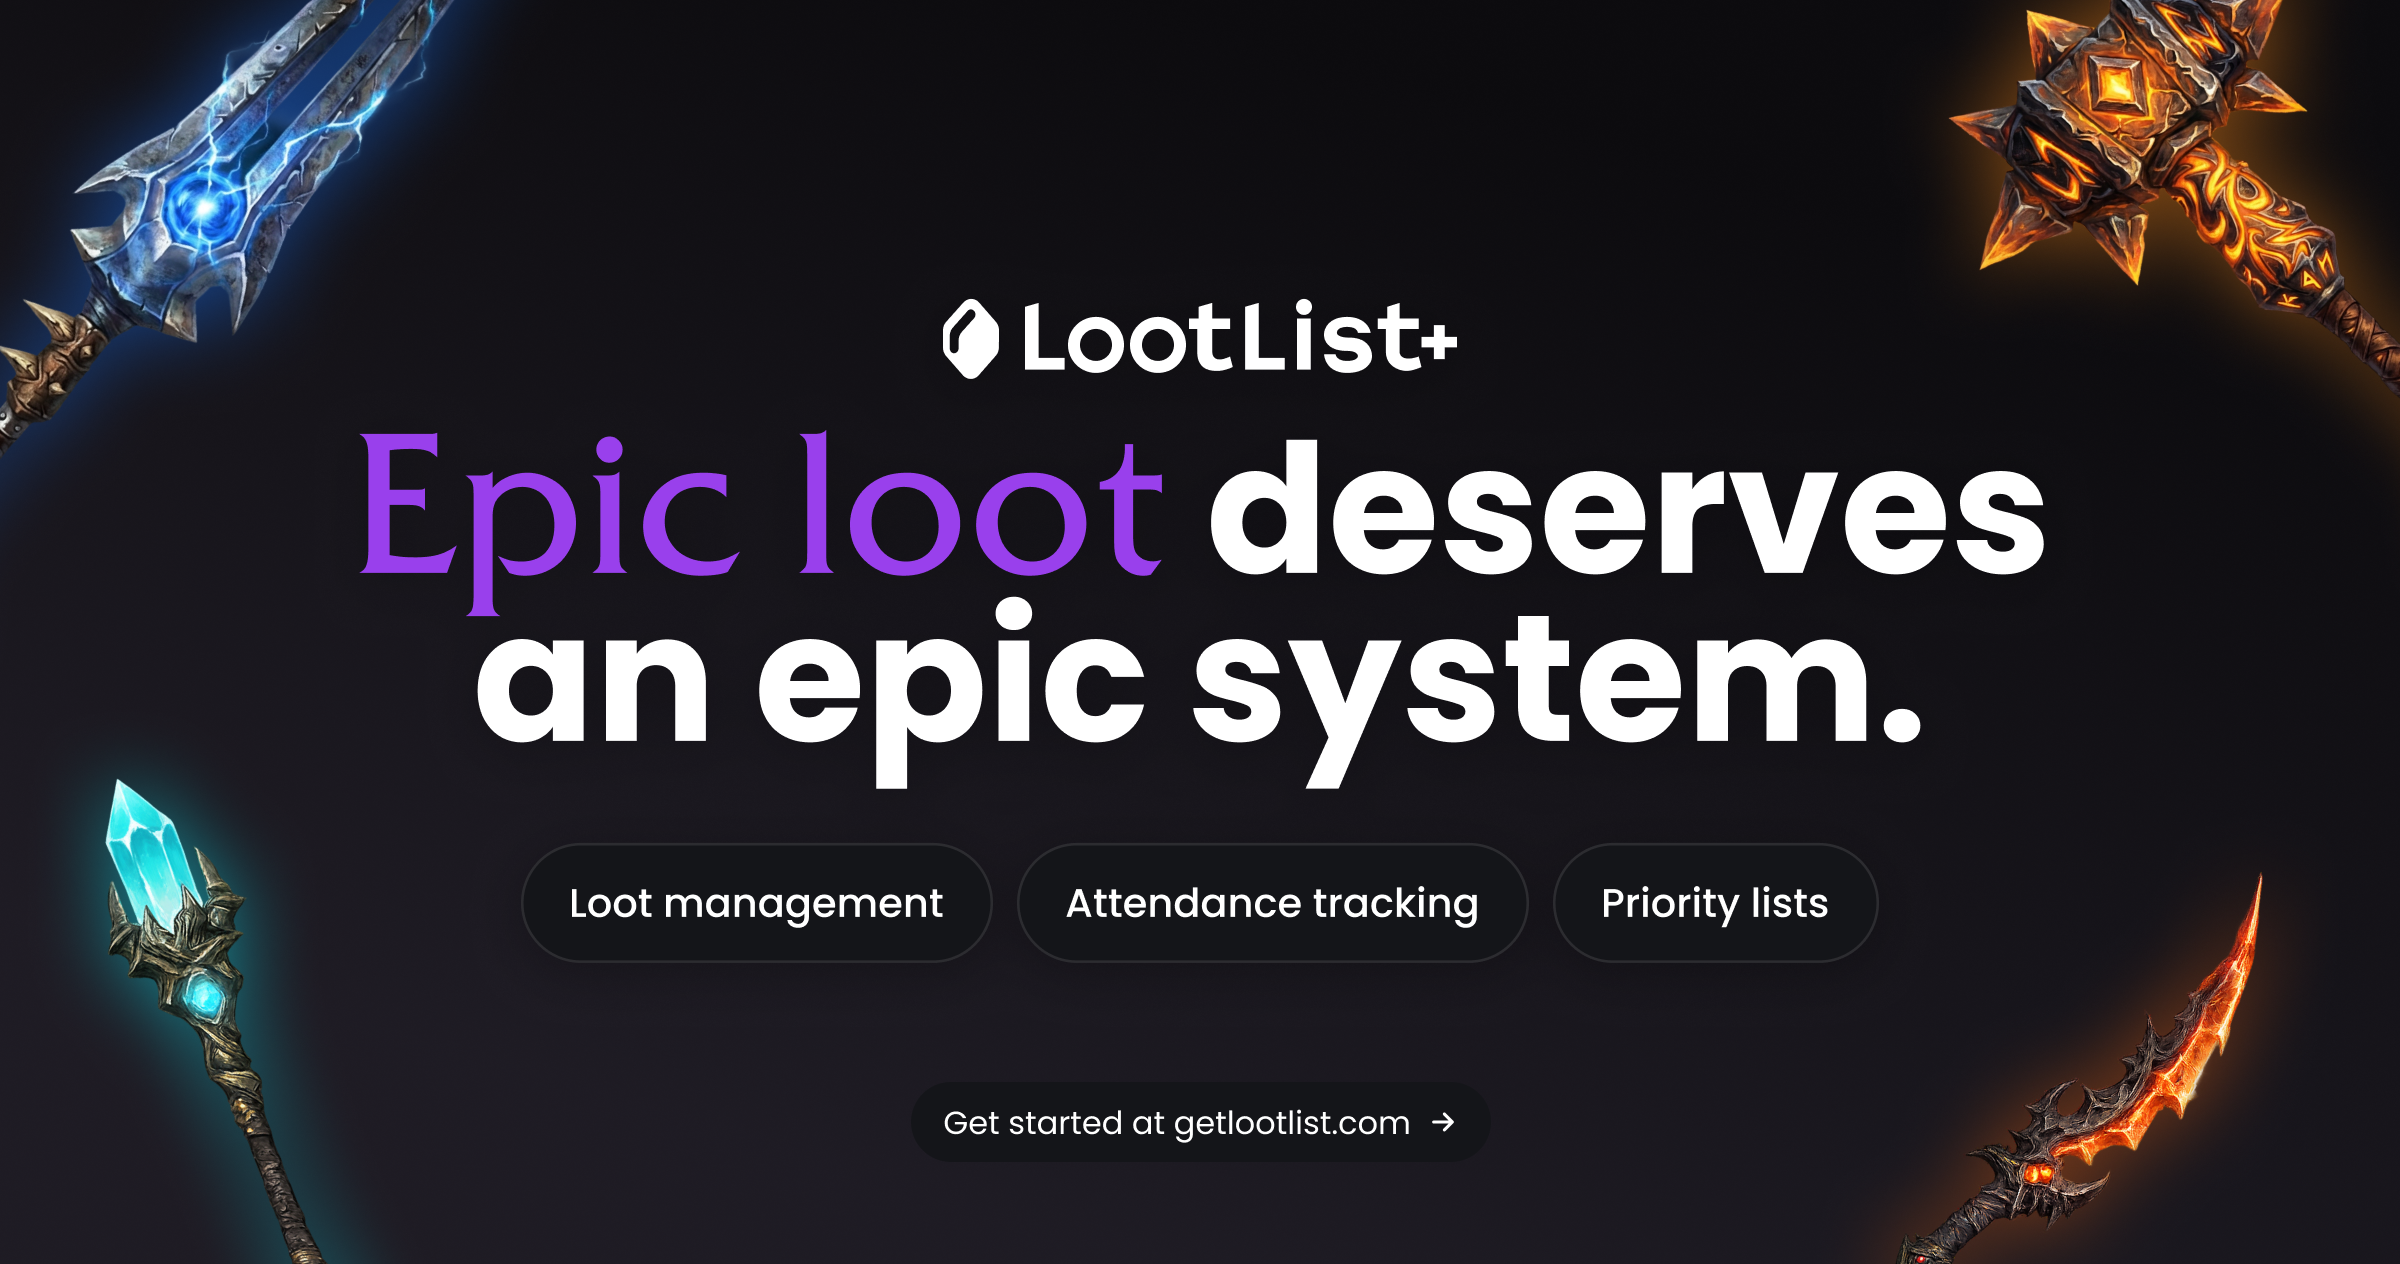
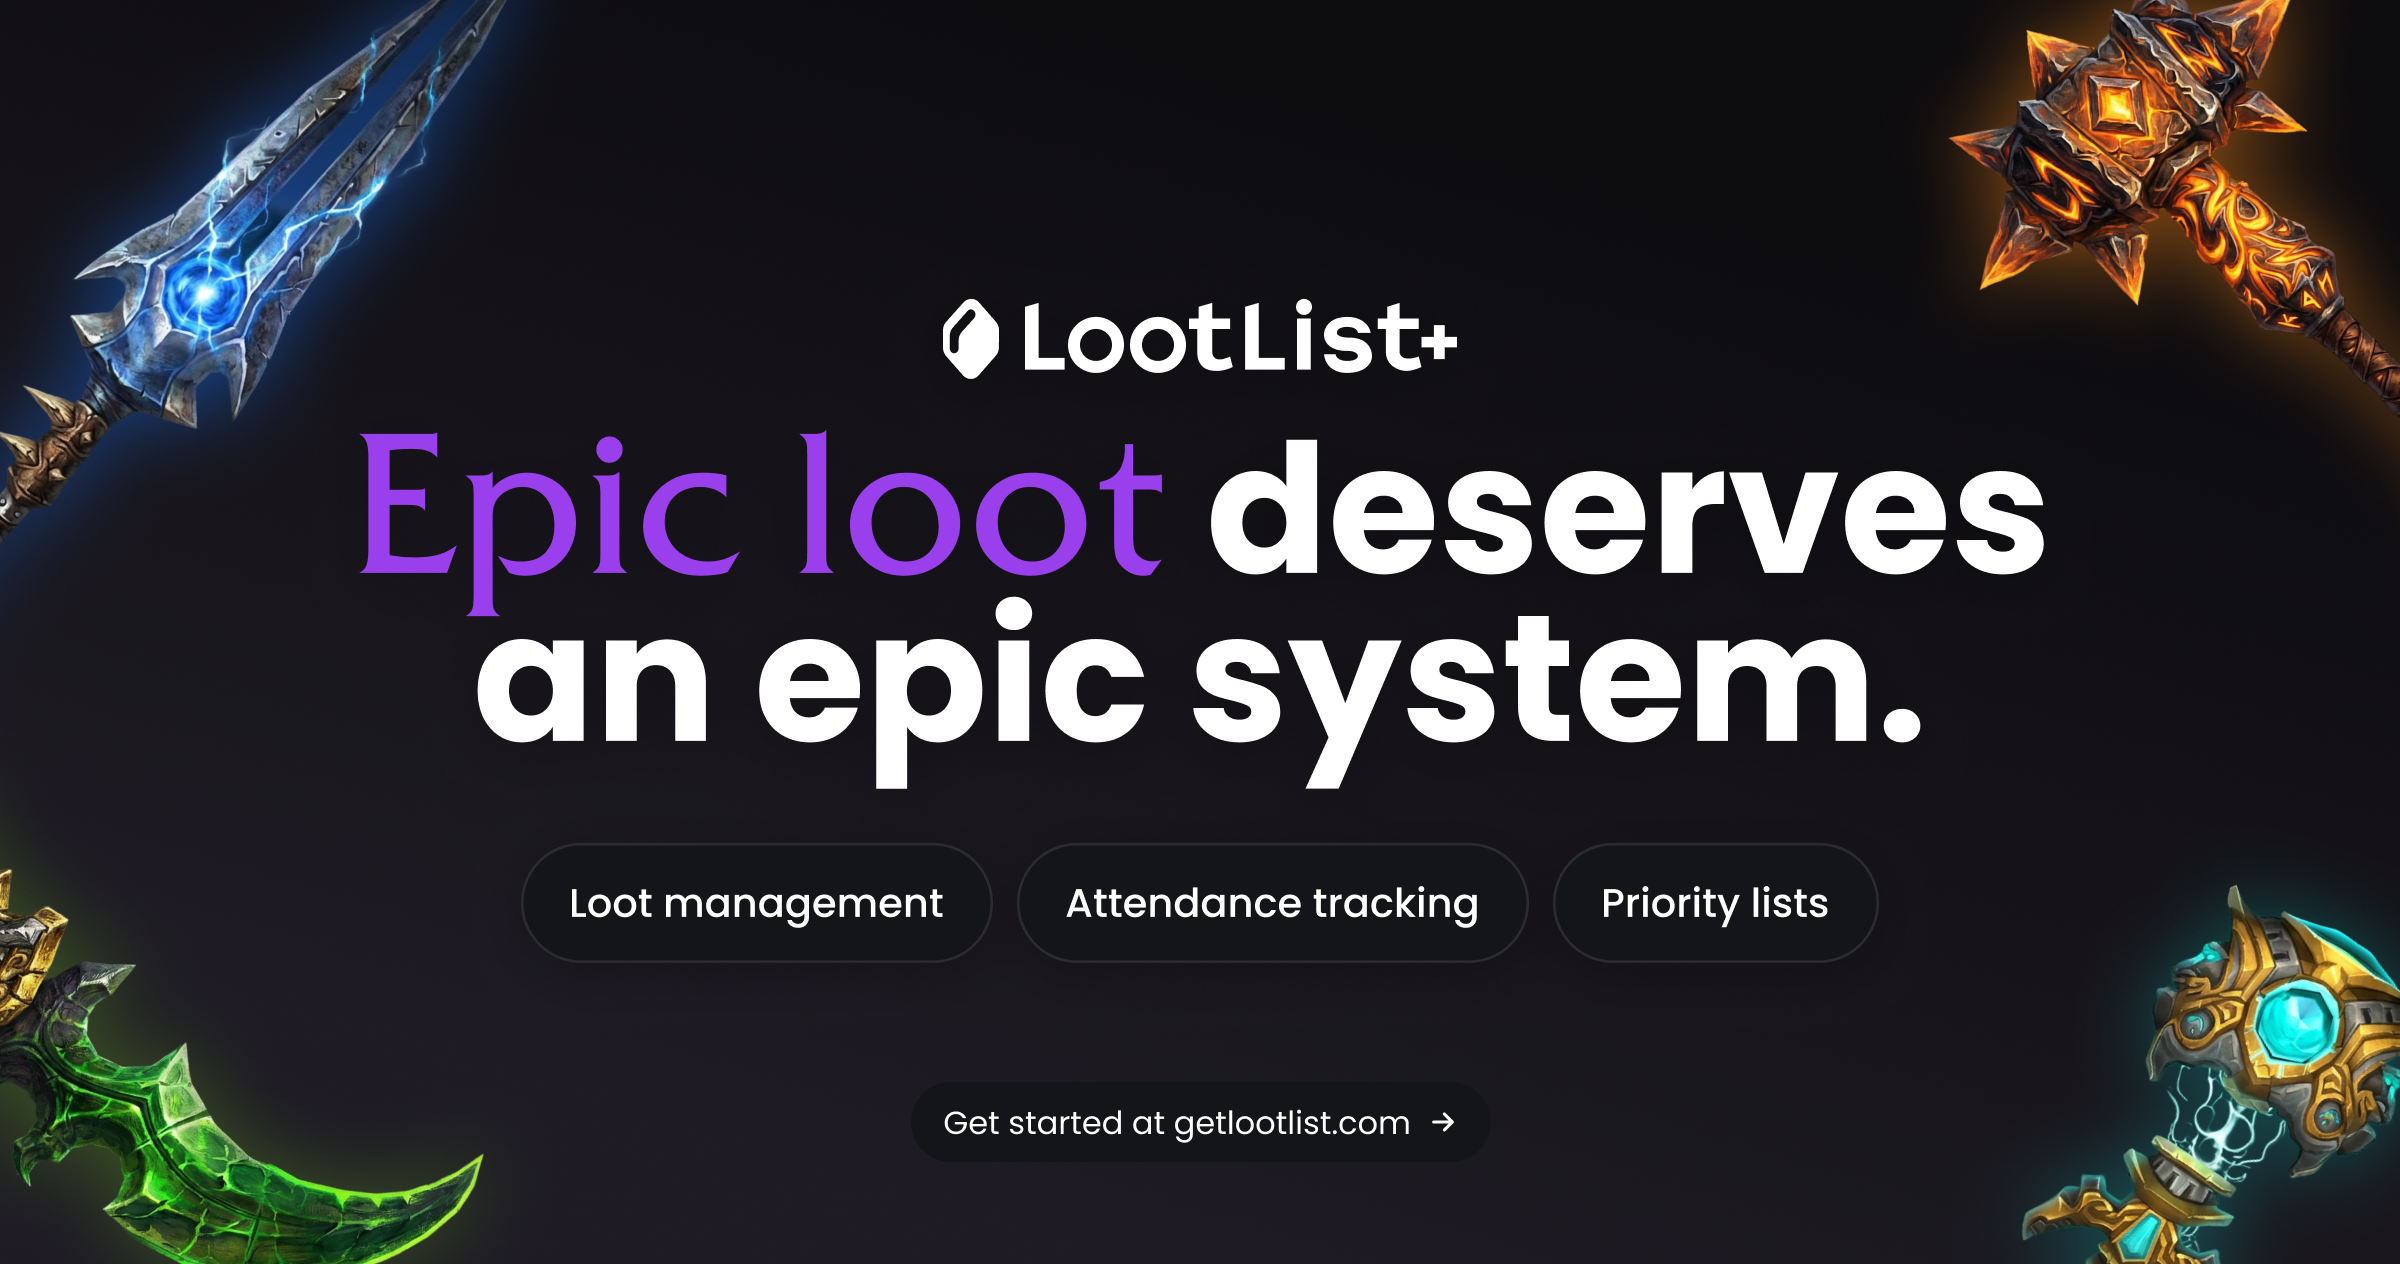
Update OG image across all pages
Replace the default OG image (og-image.png) with the new branded hero card featuring WoW weapon art, tagline, and feature pills. Applies to both getlootlist.com and lootlistplus.com since they share the same public/ directory.

Updated dimension metadata to match the actual 2400x1264 image in both the root layout and landing page. Blog posts, compare page, and other routes inherit from the root layout automatically.

Reserve join pages now generate a dynamic OG image with the raid icon and run title via next/og ImageResponse.

diff --git a/app/reserve/join/[token]/opengraph-image.tsx b/app/reserve/join/[token]/opengraph-image.tsx
@@ -1,0 +1,73 @@
+import { ImageResponse } from 'next/og'
+import { createServiceRoleClient } from '@/utils/supabase/service-role'
+import { getRaidIconLarge } from '@/utils/raidIcons'
+
+export const runtime = 'nodejs'
+export const contentType = 'image/png'
+export const size = { width: 1200, height: 630 }
+
+export default async function Image({ params }: { params: Promise<{ token: string }> }) {
+  const { token } = await params
+
+  const fontData = await fetch(
+    'https://fonts.gstatic.com/s/poppins/v22/pxiByp8kv8JHgFVrLEj6Z1JlFd2JQEl8qw.woff2'
+  ).then((res) => res.arrayBuffer())
+
+  let title = 'Reserve your loot'
+  let iconUrl = getRaidIconLarge('Unknown')
+
+  try {
+    const supabase = createServiceRoleClient()
+    const { data: run } = await supabase
+      .from('reserve_runs')
+      .select('id, title, raid_tier_id')
+      .eq('share_token', token)
+      .single()
+
+    if (run) {
+      title = run.title
+      const { data: raidTier } = await supabase
+        .from('raid_tiers')
+        .select('name')
+        .eq('id', run.raid_tier_id)
+        .single()
+      iconUrl = getRaidIconLarge(raidTier?.name || 'Raid')
+    }
+  } catch {
+    // fallback
+  }
+
+  return new ImageResponse(
+    (
+      <div
+        style={{
+          width: '100%',
+          height: '100%',
+          display: 'flex',
+          alignItems: 'center',
+          justifyContent: 'center',
+          backgroundColor: '#111113',
+          color: '#ffffff',
+          fontSize: 48,
+          fontFamily: 'Poppins',
+          padding: '48px',
+        }}
+      >
+        {/* eslint-disable-next-line @next/next/no-img-element */}
+        <img src={iconUrl} width={150} height={150} style={{ borderRadius: '20px', marginRight: '40px' }} alt="" />
+        <span>{title}</span>
+      </div>
+    ),
+    {
+      ...size,
+      fonts: [
+        {
+          name: 'Poppins',
+          data: fontData,
+          weight: 600,
+          style: 'normal' as const,
+        },
+      ],
+    }
+  )
+}

diff --git a/app/reserve/join/[token]/layout.tsx b/app/reserve/join/[token]/layout.tsx
@@ -1,6 +1,5 @@
 import type { Metadata } from 'next'
 import { createServiceRoleClient } from '@/utils/supabase/service-role'
-import { getRaidIconLarge } from '@/utils/raidIcons'
 
 /**
  * Discord/Twitter/etc. link unfurl metadata for a reserve run.
@@ -39,7 +38,6 @@ export async function generateMetadata({
 
     const raidName = raidTier?.name || 'Raid'
     const guildName = guild?.name
-    const iconUrl = getRaidIconLarge(raidName)
 
     const raidDate = new Date(run.raid_at).toLocaleString('en-US', {
       weekday: 'short',
@@ -70,21 +68,12 @@ export async function generateMetadata({
         title,
         description,
         type: 'website',
-        siteName: 'LootList+',
-        images: [
-          {
-            url: iconUrl,
-            width: 256,
-            height: 256,
-            alt: raidName,
-          },
-        ],
+        siteName: 'LootList+ Reserve',
       },
       twitter: {
-        card: 'summary',
+        card: 'summary_large_image',
         title,
         description,
-        images: [iconUrl],
       },
     }
   } catch {

diff --git a/app/(landing)/landing/page.tsx b/app/(landing)/landing/page.tsx
@@ -34,8 +34,8 @@ export const metadata: Metadata = {
     type: 'website',
     images: [{
       url: 'https://www.getlootlist.com/og-image.png',
-      width: 1200,
-      height: 630,
+      width: 2400,
+      height: 1264,
       alt: 'LootList+ - Loot Management for WoW Classic Guilds',
     }],
   },

diff --git a/app/layout.tsx b/app/layout.tsx
@@ -37,8 +37,8 @@ export const metadata: Metadata = {
     images: [
       {
         url: "/og-image.png",
-        width: 1200,
-        height: 630,
+        width: 2400,
+        height: 1264,
         alt: "LootList+ - Loot Management for WoW Classic Guilds",
       },
     ],
